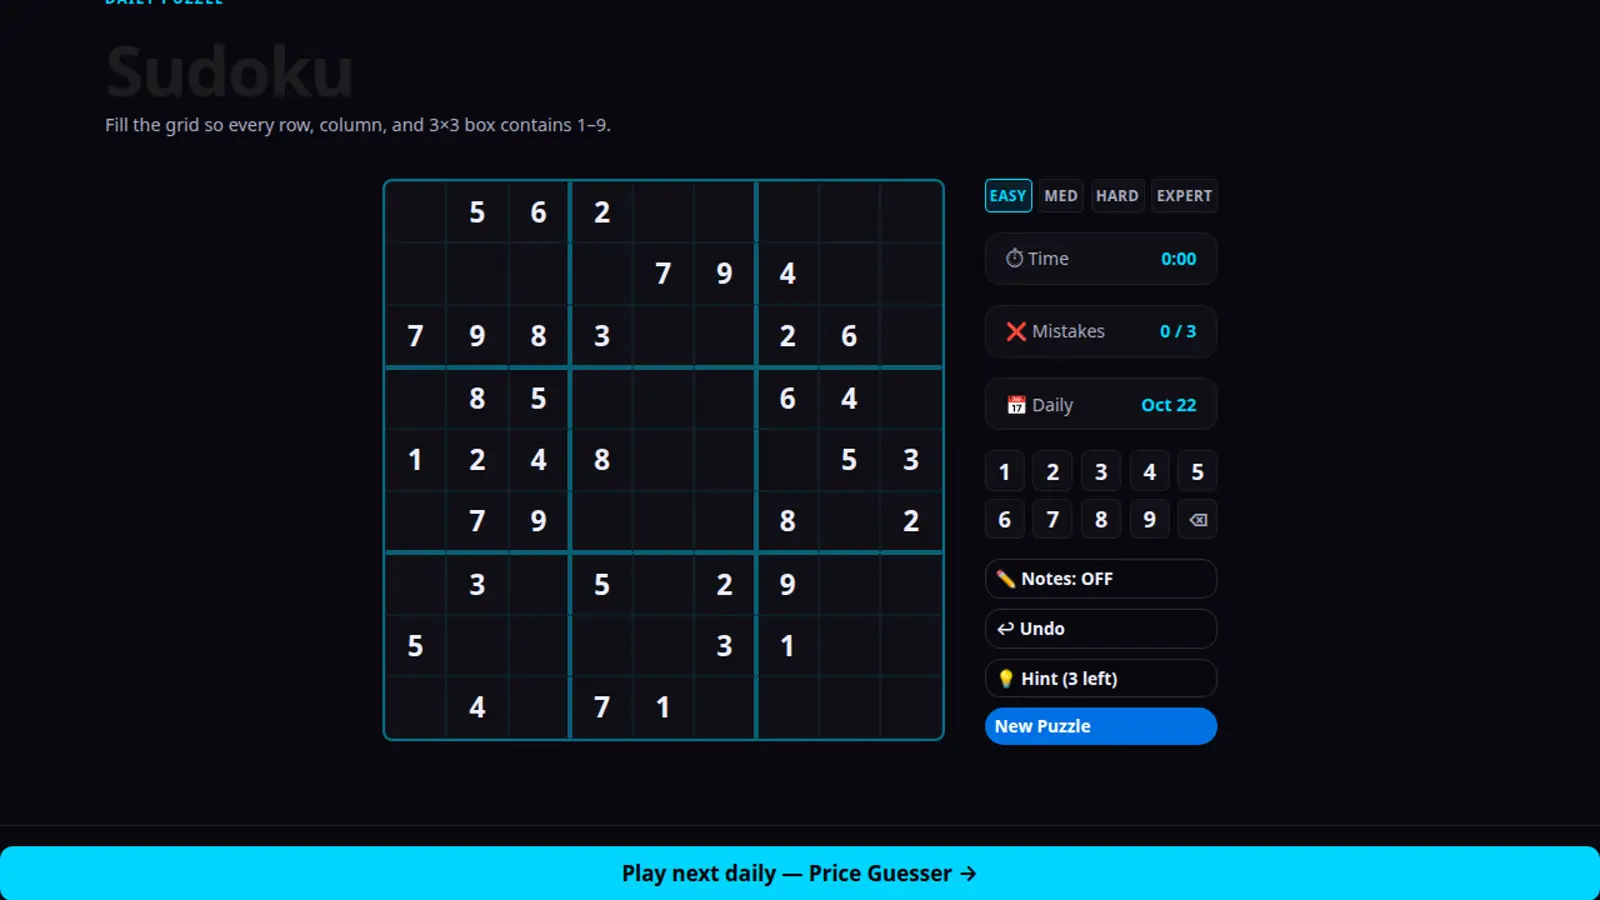
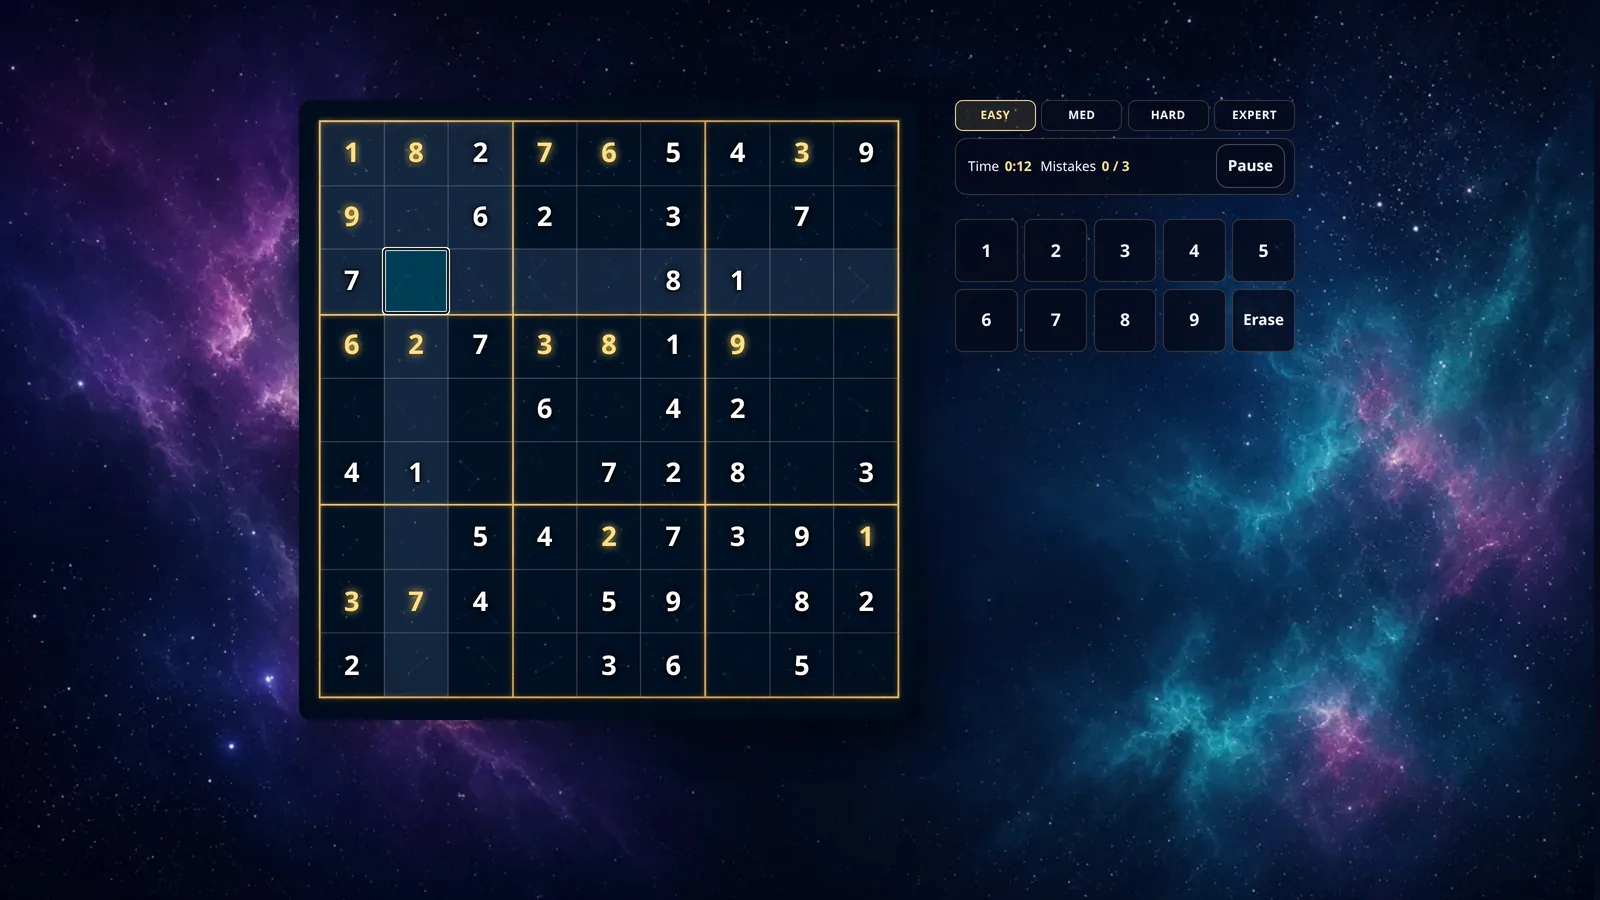
Feature Sudoku as Game of the Week for Nov 2–8. (#39)
Swap the homepage hero off BRIX 3D and onto a real mid-solve Sudoku screenshot, with desktop and phone images and matching featured data.

diff --git a/index.html b/index.html
@@ -13,18 +13,18 @@
   <meta name="viewport" content="width=device-width, initial-scale=1.0, viewport-fit=cover" />
   <meta name='impact-site-verification' value='7d4a28cc-892b-47ec-a78e-5088bd3133b7'>
   <title>Free Browser Games, No Downloads | CosmicGamesHub</title>
-  <meta name="description" content="Free browser games, no downloads. Play BRIX 3D, Holiday Rush, RIFT, Gamerdle, Rootweave, and Pixle right in the browser." />
-  <meta name="keywords" content="free browser games, BRIX 3D, Holiday Rush, RIFT, Gamerdle, Rootweave, Pixle" />
+  <meta name="description" content="Free browser games, no downloads. Play Sudoku, Holiday Rush, BRIX 3D, RIFT, Gamerdle, Rootweave, and Pixle right in the browser." />
+  <meta name="keywords" content="free browser games, Sudoku, Holiday Rush, BRIX 3D, RIFT, Gamerdle, Rootweave, Pixle" />
   <meta property="og:title" content="Free Browser Games, No Downloads | CosmicGamesHub" />
-  <meta property="og:description" content="Free browser games, no downloads. Play BRIX 3D, Holiday Rush, RIFT, Gamerdle, Rootweave, and Pixle right in the browser." />
+  <meta property="og:description" content="Free browser games, no downloads. Play Sudoku, Holiday Rush, BRIX 3D, RIFT, Gamerdle, Rootweave, and Pixle right in the browser." />
   <meta property="og:type" content="website" />
   <meta property="og:url" content="https://www.cosmicgameshub.com/" />
-  <meta property="og:image" content="https://www.cosmicgameshub.com/images/thumbs/brix3d-hero.webp" />
+  <meta property="og:image" content="https://www.cosmicgameshub.com/images/thumbs/sudoku-hero.webp" />
   <link rel="canonical" href="https://www.cosmicgameshub.com/" />
   <link rel="stylesheet" href="styles.css" />
   <link rel="stylesheet" href="/hub.css" />
-  <link rel="preload" as="image" href="/images/thumbs/brix3d-hero-phone.webp" type="image/webp" media="(max-width: 760px)" fetchpriority="high" />
-  <link rel="preload" as="image" href="/images/thumbs/brix3d-hero.webp" type="image/webp" media="(min-width: 761px)" fetchpriority="high" />
+  <link rel="preload" as="image" href="/images/thumbs/sudoku-hero-phone.webp" type="image/webp" media="(max-width: 760px)" fetchpriority="high" />
+  <link rel="preload" as="image" href="/images/thumbs/sudoku-hero.webp" type="image/webp" media="(min-width: 761px)" fetchpriority="high" />
   <script type="application/ld+json">
   {
     "@context": "https://schema.org",
@@ -246,18 +246,18 @@
   <header class="hub-head"><div class="hub-wrap">
     <p class="hub-eyebrow">Free to play in your browser. No downloads.</p>
     <h1>Games worth your time.</h1>
-    <a class="hub-hero" id="gotw" href="/games/brix3d">
+    <a class="hub-hero" id="gotw" href="/games/sudoku">
       <div class="hub-hero__in">
         <picture>
-          <source media="(max-width: 760px)" srcset="/images/thumbs/brix3d-hero-phone.webp" />
-          <source id="gotwAvif" type="image/avif" srcset="/images/thumbs/brix3d-hero.avif" />
-          <img id="gotwImg" src="/images/thumbs/brix3d-hero.webp" alt="BRIX 3D brick cottage on the build plate" width="1600" height="900" fetchpriority="high" decoding="async" />
+          <source media="(max-width: 760px)" srcset="/images/thumbs/sudoku-hero-phone.webp" />
+          <source id="gotwAvif" type="image/avif" srcset="/images/thumbs/sudoku-hero.avif" />
+          <img id="gotwImg" src="/images/thumbs/sudoku-hero.webp" alt="Sudoku in progress: a partly filled board, selected cell, and number pad" width="1600" height="900" fetchpriority="high" decoding="async" />
         </picture>
         <div class="hub-hero__copy">
           <div>
-            <div class="hub-badge"><i></i><span id="gotwWeek">Game of the Week · Oct 26–Nov 1</span></div>
-            <h2 id="gotwTitle">BRIX 3D</h2>
-            <p id="gotwBlurb">Snap together bricks, spin the world, and build anything you can imagine.</p>
+            <div class="hub-badge"><i></i><span id="gotwWeek">Game of the Week · Nov 2–8</span></div>
+            <h2 id="gotwTitle">Sudoku</h2>
+            <p id="gotwBlurb">Pick up a half-solved grid and fill every row, column, and box.</p>
           </div>
           <span class="hub-play" id="gotwPlay">Play now <svg width="14" height="14" viewBox="0 0 24 24" fill="currentColor" aria-hidden="true"><path d="M7 4v16l13-8z"/></svg></span>
         </div>
